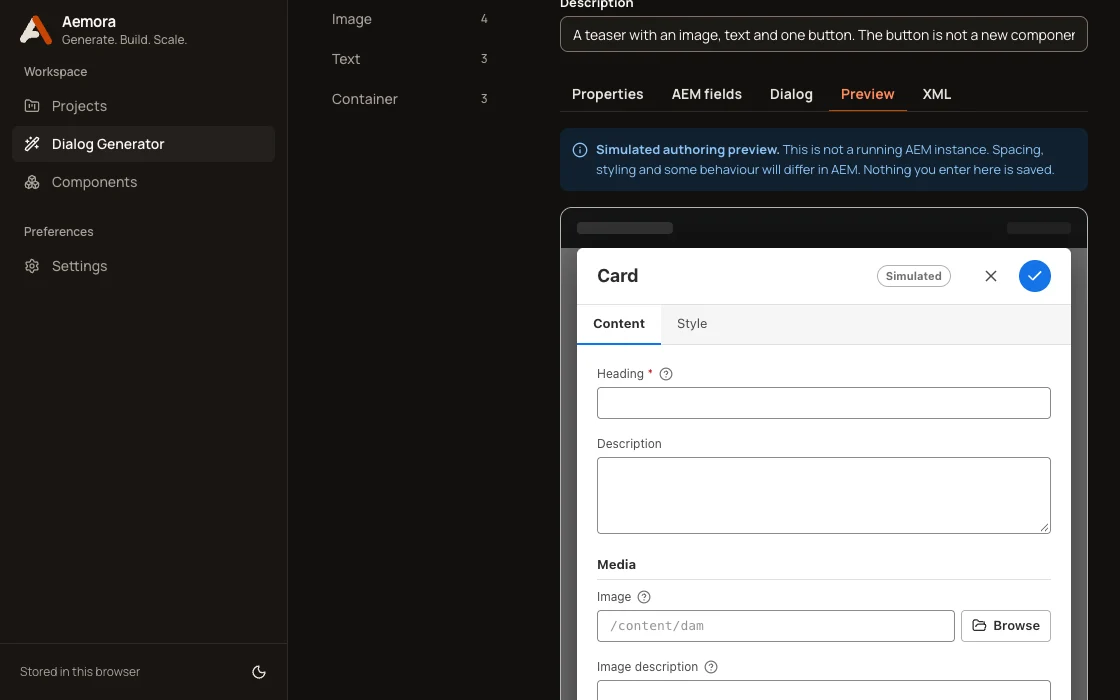
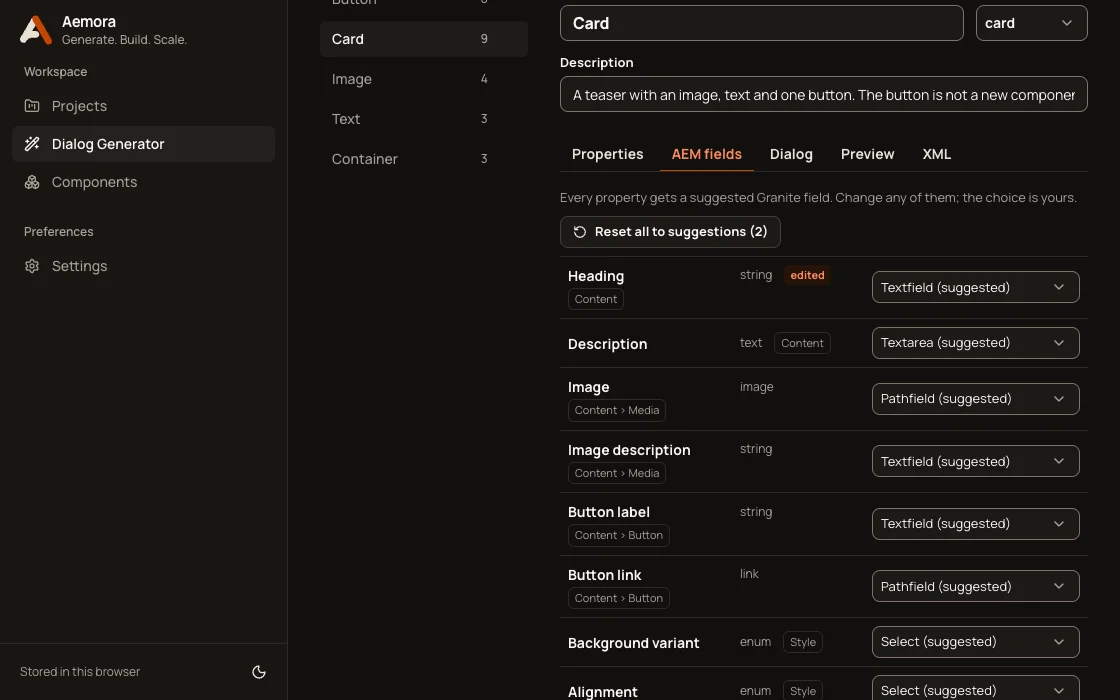
Paste, drop and Paste-button support for screenshots; hero laptop shows the AEM fields tab

diff --git a/src/features/inputs/ui/ScreenshotPanel.tsx b/src/features/inputs/ui/ScreenshotPanel.tsx
@@ -1,5 +1,6 @@
-import { useRef, useState, type PointerEvent } from 'react'
-import { Plus, Trash2, Upload } from 'lucide-react'
+import { useEffect, useRef, useState, type DragEvent, type PointerEvent } from 'react'
+import { ClipboardPaste, Plus, Trash2, Upload } from 'lucide-react'
+import { imageFrom, readClipboardImage } from '../clipboardImage'
 import { Button } from '../../../components/ui/Button'
 import { TextField } from '../../../components/ui/Field'
 import { newId } from '../../../lib/id'
@@ -12,7 +13,7 @@ import { buildScreenshotResult, clampRegion, emptyDraft, newDraftProperty, type 
 const sel = 'h-9 rounded-lg border border-hairline-strong bg-surface px-2 text-[13px] text-ink-strong'
 const num = 'h-8 w-16 rounded-lg border border-hairline-strong bg-surface px-2 text-[13px] tabular'
 
-export function ScreenshotPanel({ onResult }: { onResult: (r: ImportResult) => void }) {
+export function ScreenshotPanel({ onResult, incoming }: { onResult: (r: ImportResult) => void; /** An image pasted while another tab was showing. */ incoming?: { file: File; n: number } | null }) {
   const [asset, setAsset] = useState<Asset | null>(null)
   const [regions, setRegions] = useState<Region[]>([])
   const [draft, setDraft] = useState<Draft>(emptyDraft)
@@ -23,6 +24,7 @@ export function ScreenshotPanel({ onResult }: { onResult: (r: ImportResult) => v
   const frame = useRef<HTMLDivElement>(null)
   const fileRef = useRef<HTMLInputElement>(null)
 
+  const [over, setOver] = useState(false)
   const pick = async (f?: File) => {
     if (!f) return
     try {
@@ -31,6 +33,31 @@ export function ScreenshotPanel({ onResult }: { onResult: (r: ImportResult) => v
       setErrors([e instanceof InputError ? e.message : 'Could not read that image.'])
     }
     if (fileRef.current) fileRef.current.value = ''
+  }
+
+  useEffect(() => {
+    if (!incoming) return
+    let live = true
+    readScreenshot(incoming.file)
+      .then((a) => { if (live) { setAsset(a); setRegions([]); setErrors([]) } })
+      .catch((e) => { if (live) setErrors([e instanceof InputError ? e.message : 'Could not read that image.']) })
+    return () => { live = false }
+  }, [incoming])
+
+  const pasteButton = async () => {
+    try {
+      const f = await readClipboardImage()
+      if (f) await pick(f)
+      else setErrors(['There is no image on the clipboard. Copy a screenshot first, then try again.'])
+    } catch {
+      setErrors(['The browser did not allow reading the clipboard. Copy a screenshot, then press ⌘V or Ctrl+V while this panel is open.'])
+    }
+  }
+  const drop = (e: DragEvent) => {
+    e.preventDefault(); setOver(false)
+    const f = imageFrom(e.dataTransfer)
+    if (f) void pick(f)
+    else setErrors(['That is not an image. Drop a PNG, JPG or WebP screenshot.'])
   }
 
   const pct = (e: PointerEvent) => {
@@ -96,14 +123,22 @@ export function ScreenshotPanel({ onResult }: { onResult: (r: ImportResult) => v
               <p className="mt-1 text-[12px] text-ink-muted">Drag on the image to mark a region. You can also add regions and set their position with the numbers on the right.</p>
             </>
           ) : (
-            <button type="button" onClick={() => fileRef.current?.click()} className="flex h-44 w-full cursor-pointer flex-col items-center justify-center gap-2 rounded-xl border border-dashed border-hairline-strong text-ink hover:bg-sand">
+            <button
+              type="button" onClick={() => fileRef.current?.click()}
+              onDragOver={(e) => { e.preventDefault(); setOver(true) }} onDragLeave={() => setOver(false)} onDrop={drop}
+              className={`flex h-44 w-full cursor-pointer flex-col items-center justify-center gap-2 rounded-xl border border-dashed text-ink hover:bg-sand ${over ? 'border-accent bg-accent/5' : 'border-hairline-strong'}`}
+            >
               <Upload size={22} aria-hidden="true" />
               <span className="font-bold text-ink-strong">Choose a screenshot</span>
-              <span className="text-[13px] text-ink-muted">PNG, JPG or WebP, up to 8 MB</span>
+              <span className="text-[13px] text-ink-muted">or drop one here. PNG, JPG or WebP, up to 8 MB</span>
             </button>
           )}
           <input ref={fileRef} type="file" accept="image/png,image/jpeg,image/webp" className="sr-only" aria-label="Choose a screenshot" onChange={(e) => pick(e.target.files?.[0])} />
-          {asset && <div className="mt-2"><Button size="sm" variant="outline" onClick={() => fileRef.current?.click()}>Replace image</Button></div>}
+          <div className="mt-2 flex flex-wrap items-center gap-2">
+            {asset && <Button size="sm" variant="outline" onClick={() => fileRef.current?.click()}>Replace image</Button>}
+            <Button size="sm" variant="outline" onClick={pasteButton}><ClipboardPaste size={14} aria-hidden="true" />Paste from clipboard</Button>
+            <span className="text-[12px] text-ink-muted">or press ⌘V / Ctrl+V anywhere in this panel</span>
+          </div>
 
           {regions.length > 0 && (
             <ul aria-label="Regions" className="mt-4 space-y-1.5">

diff --git a/src/features/inputs/ui/InputPanel.test.tsx b/src/features/inputs/ui/InputPanel.test.tsx
@@ -1,5 +1,5 @@
-import { beforeEach, describe, expect, it } from 'vitest'
-import { render, screen, waitFor, within } from '@testing-library/react'
+import { beforeEach, describe, expect, it, vi } from 'vitest'
+import { fireEvent, render, screen, waitFor, within } from '@testing-library/react'
 import userEvent from '@testing-library/user-event'
 import { MemoryRouter } from 'react-router-dom'
 import { AppRoutes } from '../../../App'
@@ -130,6 +130,66 @@ describe('input panel', () => {
     await screen.findByAltText('Uploaded screenshot to annotate')
     expect(review.disabled).toBe(false)
     expect(screen.getByText(/A region is a box you draw on the screenshot/)).toBeTruthy()
+  })
+})
+
+describe('screenshots from the clipboard', () => {
+  const png = () => new File([PNG], 'image.png', { type: 'image/png' })
+  const pasteImage = (target: Element | Document, extra: Record<string, string> = {}) =>
+    fireEvent.paste(target, { clipboardData: { files: [png()], items: [{ kind: 'file', type: 'image/png', getAsFile: () => png() }], getData: (t: string) => extra[t] ?? '' } })
+
+  it('a screenshot pasted on the Screenshot tab loads into the annotator', async () => {
+    const user = userEvent.setup()
+    await open()
+    await user.click(screen.getByRole('tab', { name: 'Screenshot' }))
+    pasteImage(document)
+    expect(await screen.findByAltText('Uploaded screenshot to annotate')).toBeTruthy()
+  })
+
+  it('a screenshot pasted while another tab is showing takes you to the Screenshot tab', async () => {
+    await open()
+    expect(screen.getByLabelText('Component JSON')).toBeTruthy()
+    pasteImage(screen.getByLabelText('Component JSON'))
+    expect(await screen.findByAltText('Uploaded screenshot to annotate')).toBeTruthy()
+    expect(screen.getByRole('tab', { name: 'Screenshot' }).getAttribute('aria-selected')).toBe('true')
+  })
+
+  it('leaves ordinary text pastes alone, so pasting JSON into the box still works', async () => {
+    await open()
+    const box = screen.getByLabelText('Component JSON')
+    const ev = new Event('paste', { bubbles: true, cancelable: true }) as Event & { clipboardData: unknown }
+    ev.clipboardData = { files: [], items: [], getData: () => '{"a":1}' }
+    box.dispatchEvent(ev)
+    expect(ev.defaultPrevented).toBe(false)
+    expect(screen.queryByAltText('Uploaded screenshot to annotate')).toBeNull()
+  })
+
+  it('the Paste button reads an image from the clipboard, and explains when there is none or access is refused', async () => {
+    const user = userEvent.setup()
+    await open()
+    await user.click(screen.getByRole('tab', { name: 'Screenshot' }))
+    const clip = { read: vi.fn() }
+    Object.defineProperty(navigator, 'clipboard', { value: clip, configurable: true })
+    clip.read.mockResolvedValueOnce([{ types: ['text/plain'], getType: async () => new Blob(['x']) }])
+    await user.click(screen.getByRole('button', { name: 'Paste from clipboard' }))
+    expect((await screen.findByRole('alert')).textContent).toMatch(/no image on the clipboard/)
+    clip.read.mockRejectedValueOnce(new Error('denied'))
+    await user.click(screen.getByRole('button', { name: 'Paste from clipboard' }))
+    expect((await screen.findByRole('alert')).textContent).toMatch(/did not allow reading the clipboard/)
+    clip.read.mockResolvedValueOnce([{ types: ['image/png'], getType: async () => new Blob([PNG], { type: 'image/png' }) }])
+    await user.click(screen.getByRole('button', { name: 'Paste from clipboard' }))
+    expect(await screen.findByAltText('Uploaded screenshot to annotate')).toBeTruthy()
+  })
+
+  it('a dropped image loads, and a dropped non-image is refused with a reason', async () => {
+    const user = userEvent.setup()
+    await open()
+    await user.click(screen.getByRole('tab', { name: 'Screenshot' }))
+    const zone = screen.getByRole('button', { name: /Choose a screenshot/ })
+    fireEvent.drop(zone, { dataTransfer: { files: [new File(['hi'], 'a.txt', { type: 'text/plain' })], items: [] } })
+    expect((await screen.findByRole('alert')).textContent).toMatch(/not an image/)
+    fireEvent.drop(zone, { dataTransfer: { files: [png()], items: [] } })
+    expect(await screen.findByAltText('Uploaded screenshot to annotate')).toBeTruthy()
   })
 })
 

diff --git a/src/features/inputs/ui/InputPanel.tsx b/src/features/inputs/ui/InputPanel.tsx
@@ -1,4 +1,5 @@
-import { useCallback, useState } from 'react'
+import { useCallback, useEffect, useState } from 'react'
+import { imageFrom } from '../clipboardImage'
 import { parseClipboard } from '../clipboard'
 import { parseComponentJson } from '../json'
 import { SAMPLES } from '../samples'
@@ -27,6 +28,20 @@ export function InputPanel({ onAdd, busy }: { onAdd: (r: ImportResult) => Promis
   const [tab, setTab] = useState<TabId>('json')
   const [result, setResult] = useState<ImportResult | null>(null)
   const onResult = useCallback((r: ImportResult) => setResult(r), [])
+  const [incoming, setIncoming] = useState<{ file: File; n: number } | null>(null)
+
+  // A screenshot pasted anywhere while this panel is open goes to the Screenshot tab, whichever tab is showing.
+  // Text pastes are left alone, so pasting JSON into the box still works.
+  useEffect(() => {
+    const onPaste = (e: ClipboardEvent) => {
+      const file = imageFrom(e.clipboardData)
+      if (!file || e.clipboardData?.getData('text/plain')) return
+      e.preventDefault()
+      setTab('screenshot'); setResult(null); setIncoming({ file, n: Date.now() })
+    }
+    document.addEventListener('paste', onPaste)
+    return () => document.removeEventListener('paste', onPaste)
+  }, [])
 
   return (
     <div>
@@ -53,7 +68,7 @@ export function InputPanel({ onAdd, busy }: { onAdd: (r: ImportResult) => Promis
         )}
         {tab === 'figma' && <FigmaPanel onResult={onResult} />}
         {tab === 'plugin' && <PluginPanel onResult={onResult} />}
-        {tab === 'screenshot' && <ScreenshotPanel onResult={onResult} />}
+        {tab === 'screenshot' && <ScreenshotPanel onResult={onResult} incoming={incoming} />}
       </div>
       {result && (
         <ReviewPanel

diff --git a/src/marketing/Landing.tsx b/src/marketing/Landing.tsx
@@ -107,8 +107,8 @@ export function Landing() {
             </div>
             <div className="rise-late mx-auto mt-16 max-w-[1040px]">
               <Laptop
-                alt="Aemora open on the Card component from the sample project, showing the simulated AEM dialog preview with Content and Style tabs, a required Heading field, an image path field and a button label."
-                caption="Aemora with the Card component from the built-in sample project: the simulated AEM dialog authors would get."
+                alt="Aemora open on the AEM fields tab of the Card component from the sample project: each design property, such as Heading, Description and Image, next to the Granite UI field it maps to, like Textfield, Textarea and Pathfield."
+                caption="Aemora with the Card component from the built-in sample project: every design property next to the Granite UI field it maps to."
               />
             </div>
           </Frame>

diff --git a/src/features/inputs/clipboardImage.ts b/src/features/inputs/clipboardImage.ts
@@ -1,0 +1,20 @@
+/** An image on the clipboard or in a drop, such as a screenshot copied with Cmd+Ctrl+Shift+4 or Win+Shift+S. */
+export function imageFrom(data: DataTransfer | null | undefined): File | null {
+  if (!data) return null
+  const file = [...(data.files ?? [])].find((f) => f.type.startsWith('image/'))
+  if (file) return file
+  for (const item of [...(data.items ?? [])]) {
+    if (item.kind === 'file' && item.type.startsWith('image/')) return item.getAsFile()
+  }
+  return null
+}
+
+/** Reads an image through the async Clipboard API (the "Paste" button). Needs the browser's permission. */
+export async function readClipboardImage(): Promise<File | null> {
+  const items = await navigator.clipboard.read()
+  for (const item of items) {
+    const type = item.types.find((t) => t.startsWith('image/'))
+    if (type) { const blob = await item.getType(type); return new File([blob], 'pasted-screenshot.png', { type }) }
+  }
+  return null
+}

diff --git a/src/marketing/Landing.test.tsx b/src/marketing/Landing.test.tsx
@@ -67,7 +67,7 @@ describe('landing page', () => {
     expect(figures).toHaveLength(4) // hero + three modules
     // The hero is a real screenshot of the running app on a laptop: it has a description and says where its data came from.
     const [hero, ...modules] = figures
-    const shot = within(hero).getByRole('img', { name: /Aemora open on the Card component from the sample project/ })
+    const shot = within(hero).getByRole('img', { name: /Aemora open on the AEM fields tab of the Card component/ })
     expect(shot.getAttribute('src')).toMatch(/app-light.*\.webp$/)
     expect(hero.querySelector('figcaption')?.textContent).toMatch(/built-in sample project/)
     for (const f of modules) {

diff --git a/src/marketing/Laptop.tsx b/src/marketing/Laptop.tsx
@@ -3,8 +3,8 @@ import appLight from './assets/app-light.webp'
 import appDark from './assets/app-dark.webp'
 
 /**
- * A laptop with a real screenshot of the running app on its screen (the Card component's AEM dialog
- * preview, from the built-in sample). Two captures, light and dark, so it follows the page theme.
+ * A laptop with a real screenshot of the running app on its screen (the Card component's AEM fields,
+ * from the built-in sample). Two captures, light and dark, so it follows the page theme.
  */
 export function Laptop({ alt, caption, children }: { alt: string; caption: ReactNode; children?: ReactNode }) {
   return (
